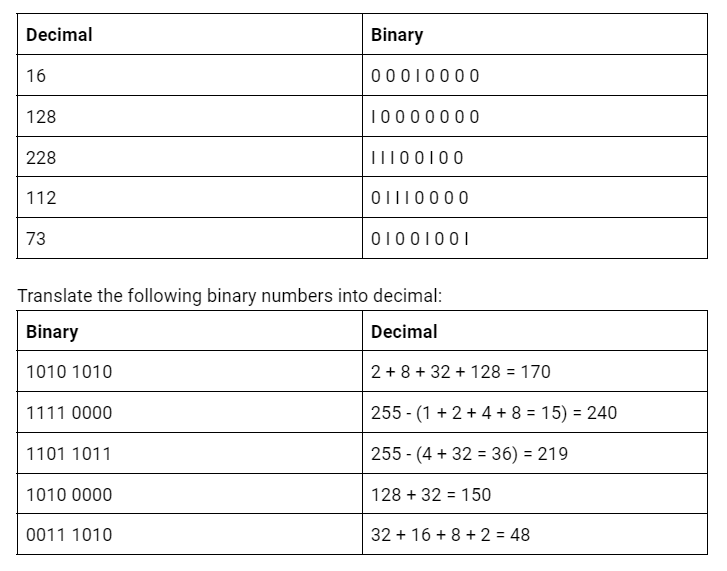
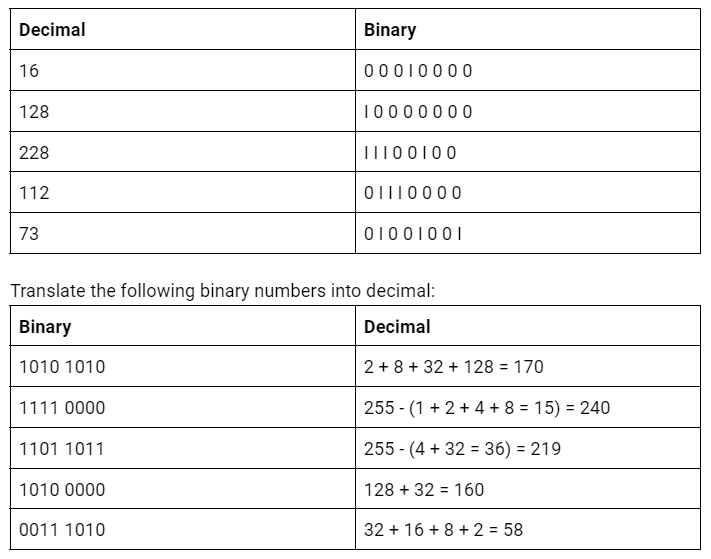
Update NTW-02 and NTW-04

Changed region(s): [[0.0, 0.4866, 0.9902, 0.9732], [0.0, 0.0, 0.9902, 0.4562]]

diff --git a/03_Networking_1/NTW-06_Subnetting.md b/03_Networking_1/NTW-06_Subnetting.md
@@ -1,0 +1,50 @@
+# NTW-06 Subnetting
+An IP address consists of a network- and a host (device) portion. Without Submasking, we would not be able to distinquish between the two.  
+
+Every bit that is a 1 in a subnet mask, belongs to the network. So for 255.255.255.0, that means all bits in the first 3 bytes belong to the network. You can layer this with the bits in the IP address and perform bitwise AND and know the values of the network.  
+
+When you perform the bitwise AND, only the bits which are 1 in both sequences will be a 1 in the resulting sequence.  
+
+**Why is an address split up in two parts?**
+When one hosts wants to communicate with another, it sends out a Broadcast to identify the receiver. The receiving host will reply with it's details. But every other host in the network will also receive the broadcast. A lot of hosts sending out broadcasts at the same time will clutter the network. Therefore the network is split up into smaller pieces. A Router is a physical border between networks and broadcasts do not cross a router, instead the router intelligently routes the request.   
+
+**Submasking**  
+Submasking is done by changing the default subnet mask by borrowing some bits from the host portion of the address.  
+  
+Some basic bitwise operation understanding is required. If you move all bits left, you double the value (provided you are not at the end of your byte...). Moving all bits 1 step right, you divide it by 2.  
+By borrowing a bit from the host portion, you double the amount of networks and divide the amount of hosts by 2. If you borrow another bit, it's again *2 and /2. 
+
+Default submasks are divided into classes, because you are limited how many subnet you can make based on masking.  
+
+Class A: starts with 1-126.x.x.x - default mask = 255.0.0.0 = +- 16 million host addresses (an ISP might use this)
+Class B: starts with 128-191.x.x.x - default mask = 255.255.0.0 = +- 65K host addresses (a big company might use this)
+Class C: starts with 192-223.x.x.x - default mask = 255.255.255.0 = 256 host addresses (normal connections)
+
+
+## Key terminology
+- CIDR: Classless Inter-Domain Routing (slash notation). The number after the slash describes the length of the network mask in bits. /24 == 24 bits == 3 bytes == 255.255.255.0
+- Broadcast address: The address on which the broadcast signal is transmitted (and connects the local network to the outside)
+
+## Exercise
+### Sources
+- https://www.ipxo.com/tutorial/what-is-subnet-mask/
+- https://www.youtube.com/watch?v=s_Ntt6eTn94
+- https://www.ipxo.com/subnet-cheat-sheet/
+- https://en.wikipedia.org/wiki/Broadcast_address
+- https://cloud.in28minutes.com/aws-certification-public-subnet-vs-private-subnet
+
+### Overcome challenges
+- Understanding Subnetting
+- Understanding Subnet masks
+- Difference between private and public subnets
+
+
+### Results
+
+Design a networkarchitecture that meets the following demands:
+- 1 private subnet with atleast 15 hosts. Only accessable within the LAN.
+- 1 private subnet with atleast 30 hosts (excluding NAT gateway). This network should have internet access.
+- 1 public subnet with a internet gateway. This subnet needs to be able to place atleast 5 hosts (excluding the internet gateway)
+
+
+

diff --git a/03_Networking_1/NTW-02_Network_devices.md b/03_Networking_1/NTW-02_Network_devices.md
@@ -7,7 +7,7 @@ Without devices, you can't connect a network.
 - Bridge: `data link` A bridge is a repeater with the added functionality of filtering data based on the MAC addresses of source and destination. It has 2 ports.
 - Switch: `data link` A switch is a multi-port bridge with a buffer. The Switch can perform error checking before forwarding data. Only forwarding correct data to the corresponding port makes it very efficient.
 - Router: `network layer` A router is a device like a switch that forwards data packets based on their IP addresses. A Router connects LAN with WAN and has a dynamically updating routing table (best route to take to get from point A to point B).
-- Gateway: Also called a protocol converter and can operate on any network layer.
+- Gateway: Also called a protocol converter and can operate on any OSI layer to connect multiple networks through multiple protocols.
 - Brouter: `data link / network layer` Also known as a Bridging Router that combines features from both devices. It can route packets across a network or work as a bridge, it's capable of filtering local network traffic.
 - NIC: `physical / network layer` Network Interface Card, the card in your device that enables a connection to a network (either via cable or WiFi).
 - Access point: `data link` Connects to a Ethernet cable and generates a WiFi signal (Wireless)

diff --git a/04_Security_1/SEC-01_Network_Detection.md b/04_Security_1/SEC-01_Network_Detection.md
@@ -1,0 +1,15 @@
+# [Subject]
+[Give a short summary of the subject matter.]
+
+## Key terminology
+[Write a list of key terminology with a short description. To prevent duplication you can reference to previous excersizes.]
+
+## Exercise
+### Sources
+[List your sources you used for solving the exercise]
+
+### Overcome challenges
+[Give a short description of your challanges you encountered, and how you solved them.]
+
+### Results
+[Describe here the result of the exercise. An image can speak more than a thousand words, include one when this wisdom applies.]

diff --git a/04_Security_1/SEC-02_Firewalls.md b/04_Security_1/SEC-02_Firewalls.md
@@ -1,0 +1,15 @@
+# [Subject]
+[Give a short summary of the subject matter.]
+
+## Key terminology
+[Write a list of key terminology with a short description. To prevent duplication you can reference to previous excersizes.]
+
+## Exercise
+### Sources
+[List your sources you used for solving the exercise]
+
+### Overcome challenges
+[Give a short description of your challanges you encountered, and how you solved them.]
+
+### Results
+[Describe here the result of the exercise. An image can speak more than a thousand words, include one when this wisdom applies.]
